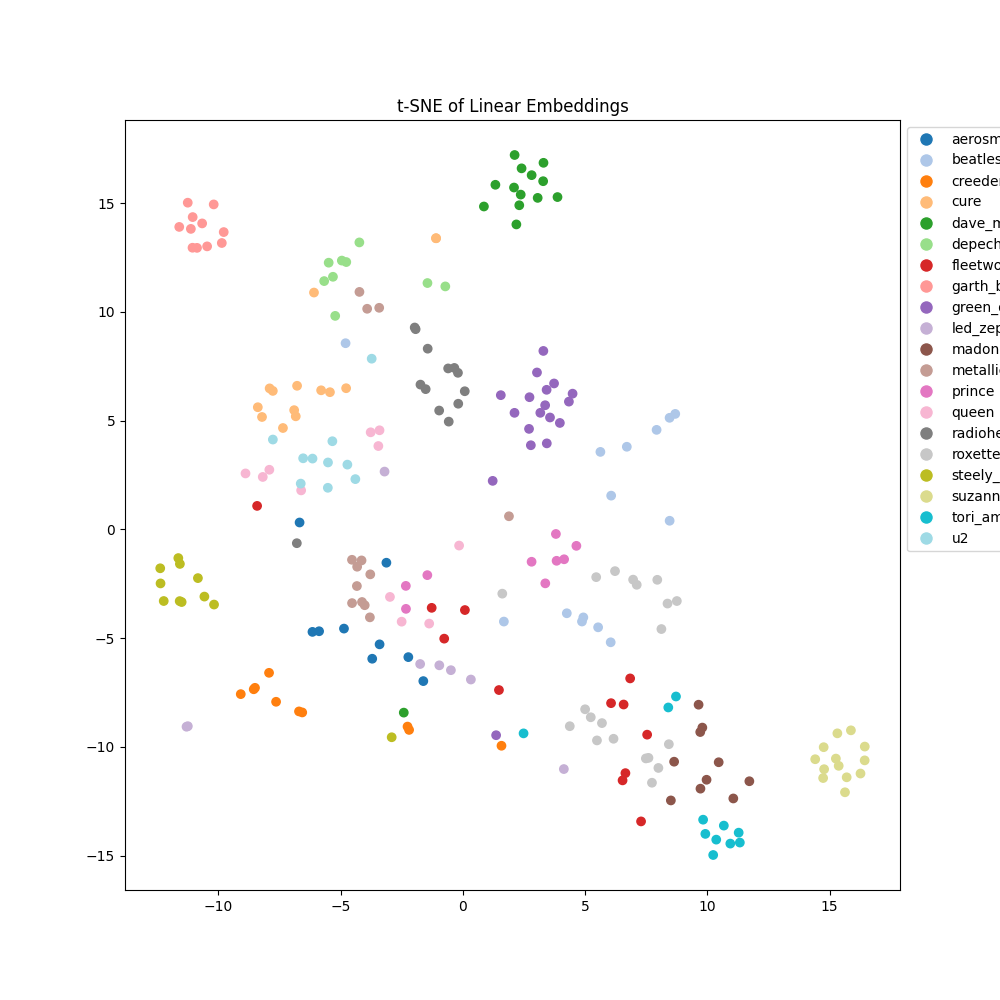
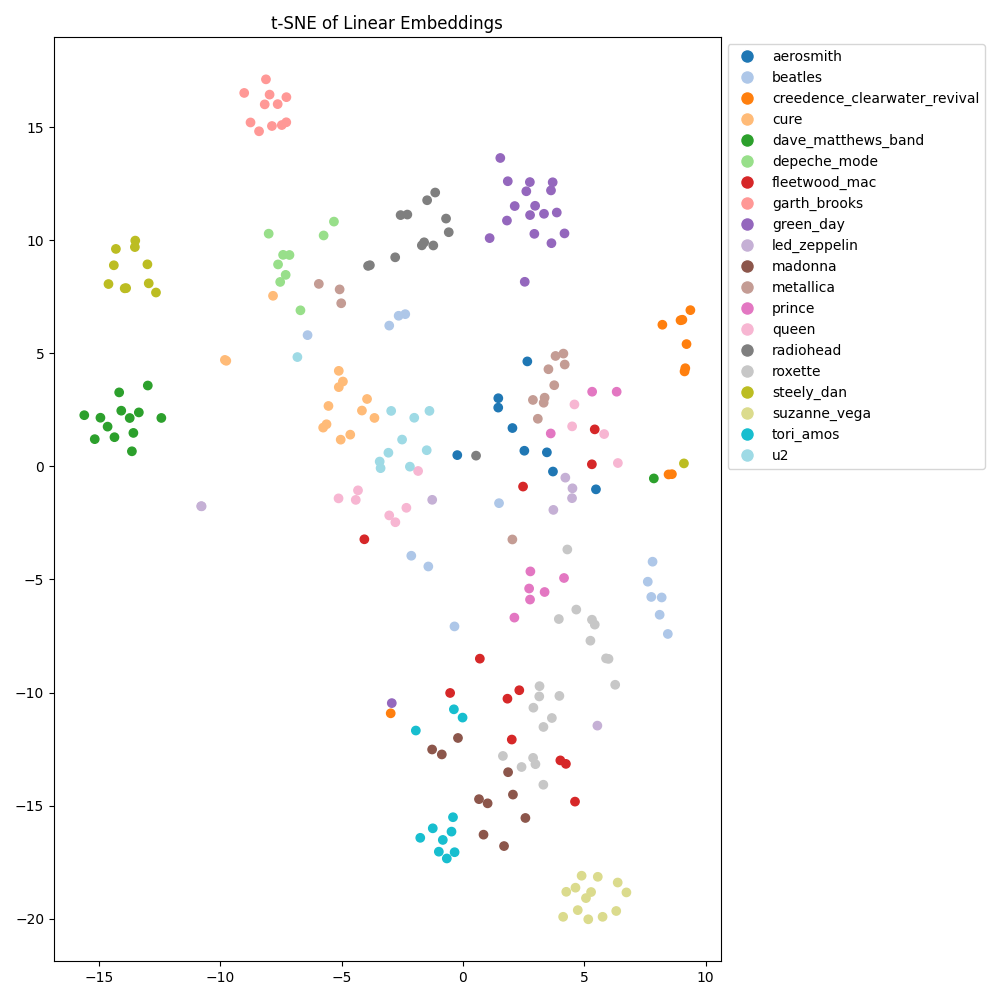
update

diff --git a/hw1/tSNE_analysis.py b/hw1/tSNE_analysis.py
@@ -106,7 +106,7 @@ def main(args):
     legend_elements = [Line2D([0], [0], marker='o', color='w', label=f'{val_dataset.get_label(i)}',
                           markersize=10, markerfacecolor=plt.cm.tab20(i/20)) for i in range(20)]
     plt.legend(handles=legend_elements, loc='upper left', bbox_to_anchor=(1, 1))
-
+    plt.tight_layout()
     plt.savefig('tsne_pretrain.png')
     plt.clf()
 
@@ -119,6 +119,7 @@ def main(args):
     legend_elements = [Line2D([0], [0], marker='o', color='w', label=f'{val_dataset.get_label(i)}',
                           markersize=10, markerfacecolor=plt.cm.tab20(i/20)) for i in range(20)]
     plt.legend(handles=legend_elements, loc='upper left', bbox_to_anchor=(1, 1))
+    plt.tight_layout()
     plt.savefig('tsne_linear.png')
 
 
